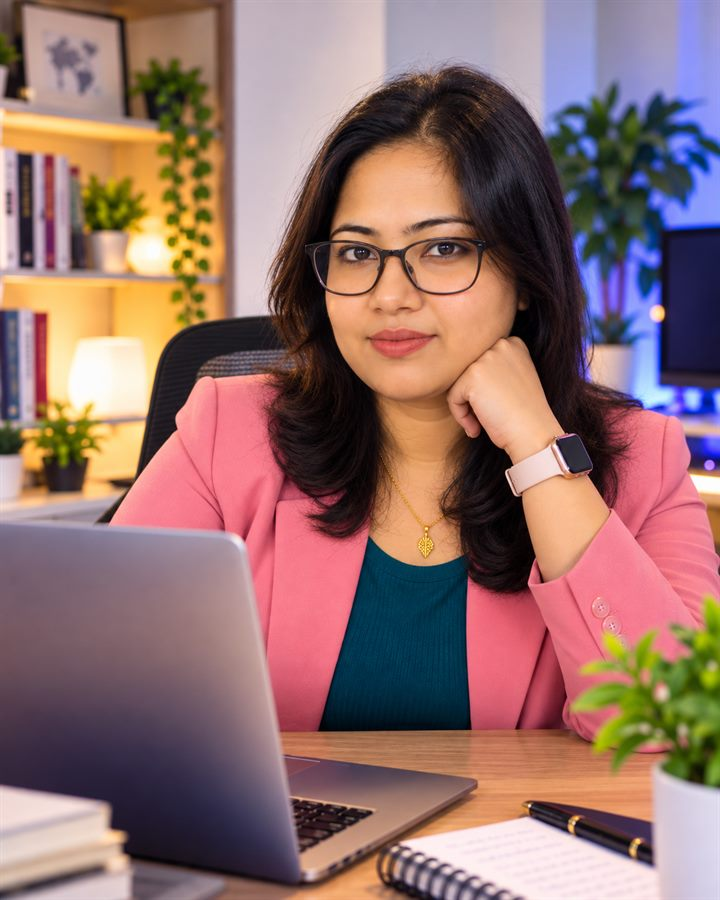
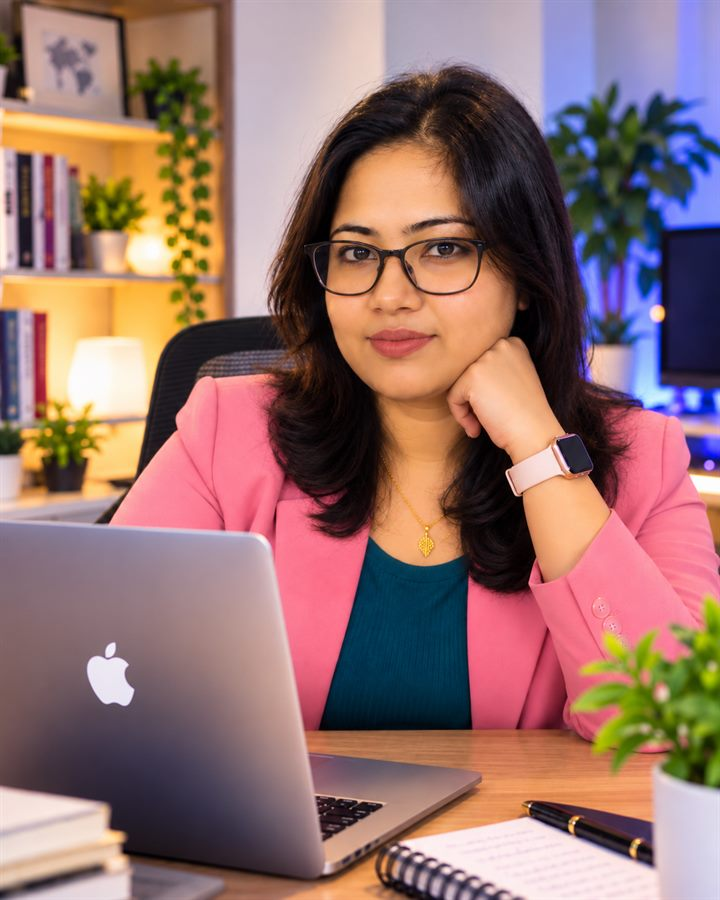
Update profile photo

diff --git a/index.html b/index.html
@@ -69,7 +69,7 @@
 
       <div class="hero-visual" aria-hidden="true">
         <div class="visual-card">
-          <img class="visual-photo" src="images/maitree.jpg" alt="Maitree Manna" width="720" height="900" />
+          <img class="visual-photo" src="images/maitree.jpg?v=2" alt="Maitree Manna" width="720" height="900" />
           <p class="visual-name">Maitree Manna</p>
           <p class="visual-role">Data Architect</p>
           <div class="visual-tags">
